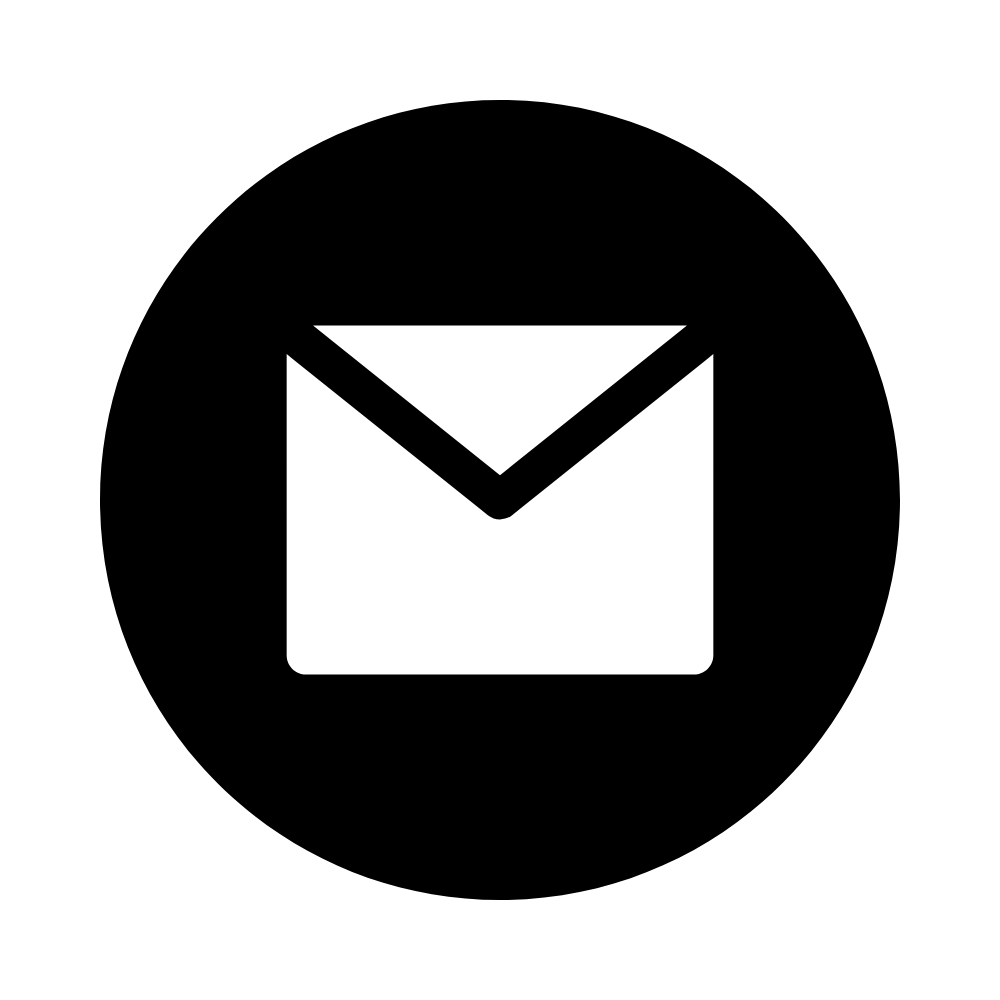
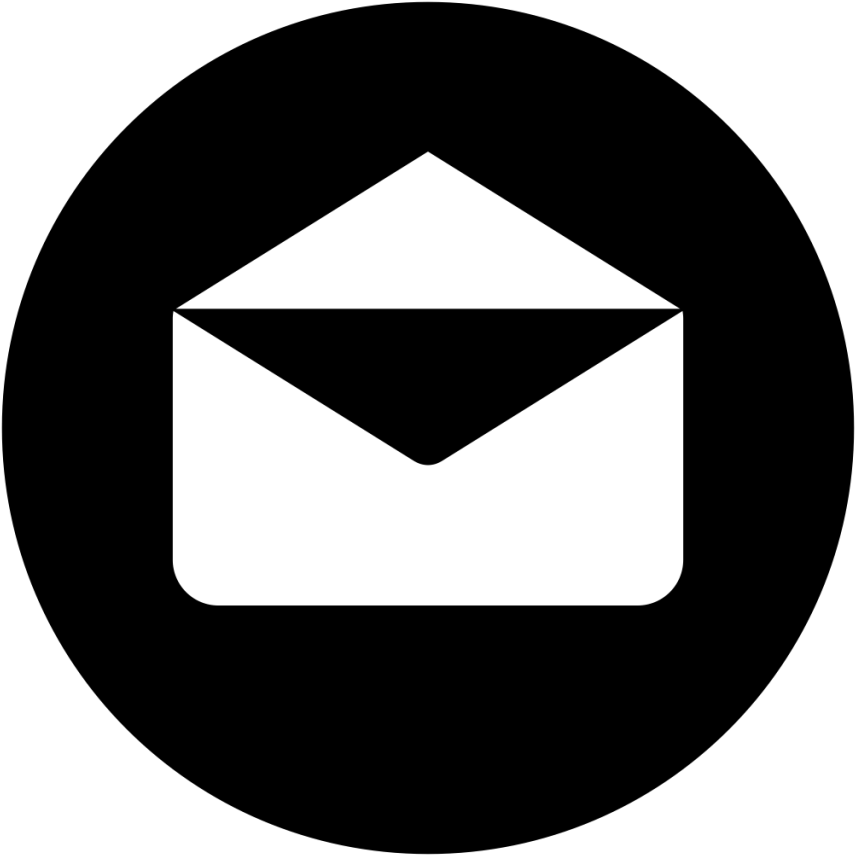
Updated education section layout and style

diff --git a/style.css b/style.css
@@ -202,15 +202,22 @@ section {
 #socials-container {
   display: flex;
   justify-content: center;
-  margin-top: 1rem;
-  gap: 1rem;
+  align-items: center;
+  gap: 1.5rem;
 }
 
 /* ICONS */
 
 .icon {
-  cursor: pointer;
-  height: 2rem;
+  cursor: pointer; /* Makes it clear these are clickable */
+  width: 2.5rem; /* Example size, adjust as needed */
+  height: 2.5rem; /* Maintain aspect ratio */
+  transition: transform 0.2s ease-in-out; /* Smooth hover effect */
+  /* Add other icon-specific styles if any */
+}
+
+.icon:hover {
+    transform: scale(1.1); /* Example hover effect */
 }
 
 /* BUTTONS */
@@ -718,18 +725,25 @@ body.dark-mode .section-title {
   gap: 1.5rem;
   justify-content: space-between;
   align-items: flex-start;
+}            
+
+#education {
+  margin-bottom: 6rem; /* space between education and experience */
 }
-/* Light mode: transparent effect for edu-card */
-.edu-card {             
-  background-color: #ffffff; /* Add this line to make it white in light mode */
+
+/* Light mode: solid white card with rounded corners */
+.edu-card {
+  background-color: #ffffff;
   color: #333;
   padding: 1.5rem;
-  border-radius: 12px;
-  box-shadow: none; /* Re-add a subtle shadow for white cards */
-  backdrop-filter: none; /* Remove blur for solid white cards */
+  border-radius: 12px; /* Rounded corners on all sides */
+  box-shadow: 0 4px 12px rgba(0, 0, 0, 0.1); /* Soft depth shadow */
+  border: 1px solid #e0e0e0; /* Optional light border for extra separation */
+  backdrop-filter: none;
   width: 200px;
   text-align: center;
-  transition: transform 0.3s ease, background-color 0.3s ease, box-shadow 0.3s ease, color 0.3s ease;
+  transition: transform 0.3s ease, background-color 0.3s ease,
+              box-shadow 0.3s ease, color 0.3s ease;
 }
 
 /* Dark mode: transparent glass effect (already good, just ensure consistency) */
@@ -948,4 +962,75 @@ body.dark-mode .edu-card {
 
 body.dark-mode #education {
   background-color: #121212; /* Dark background for dark mode */
+}
+
+/* --- Styles for the Social Icons Section --- */
+
+#socials-container {
+    display: flex; /* Makes the icons arrange in a row */
+    justify-content: center; /* Horizontally centers the icons within their container */
+    align-items: center;   /* Vertically centers the icons (addresses "stuck to the above" issue) */
+    gap: 1.5rem;           /* Adds space BETWEEN the icons. Adjust this value as needed for more/less space */
+    margin-top: 1.5rem;    /* Adds space ABOVE the social icons container (adjust as needed) */
+    padding: 0.5rem 0;     /* Add some vertical padding if needed to create space around the row of icons */
+}
+
+.icon {
+    /* Ensures all icons (LinkedIn, GitHub, Email) are the same size */
+    width: 2.5rem;  /* Adjust this size to your preference */
+    height: 2.5rem; /* Ensures height matches width, assuming square icons */
+    object-fit: contain; /* Ensures the entire image is visible within the assigned width/height */
+    cursor: pointer;      /* Indicates they are clickable */
+    transition: transform 0.2s ease-in-out; /* Smooth hover effect */
+}
+
+.icon:hover {
+    transform: scale(1.1); /* Slightly enlarge on hover */
+}
+
+/* --- Mobile Responsiveness --- */
+/* Add these adjustments within your existing @media queries in mediaqueries.css */
+
+@media screen and (max-width: 1200px) {
+    #socials-container {
+       gap: 1.25rem; 
+        /* No major changes needed here, flex should handle it */
+        /* You might want a slightly smaller gap than desktop, e.g., 1.25rem */
+    }
+}
+
+@media screen and (max-width: 600px) {
+    #socials-container {
+        gap: 1rem; /* Adjust space for smaller screens if 1.5rem is too much */
+        /* If you anticipate more icons later and they might not fit on one line: */
+        /* flex-wrap: wrap; */
+    }
+
+    .icon {
+        width: 2rem;  /* Smaller icons for very small screens */
+        height: 2rem;
+    }
+}
+.about-layout {
+  display: flex;
+  justify-content: space-between;
+  align-items: flex-start;
+  gap: 2rem;
+}
+
+/* Stack vertically on smaller screens to prevent overlap */
+@media screen and (max-width: 900px) {
+  .about-layout {
+    flex-direction: column;
+    align-items: center; /* Optional: center cards below the image */
+  }
+
+  .about-image, .education-boxes {
+    width: 100%;
+    text-align: center;
+  }
+
+  .edu-card {
+    margin: 0 auto; /* Optional: center the cards themselves */
+  }
 }

diff --git a/mediaqueries.css b/mediaqueries.css
@@ -1,6 +1,6 @@
 @media screen and (max-width: 1400px) {
   #profile {
-    height: 83vh;
+    height: auto;
     margin-bottom: 6rem;
   }
   .about-containers {
@@ -47,13 +47,13 @@
   }
 }
 
-@media screen and (max-width: 600px) {
+ @media screen and (max-width: 600px) {
   #contact,
   footer {
-    height: 40vh;
+    height: fit-content;
   }
   #profile {
-    height: 83vh;
+    height: auto;
     margin-bottom: 0;
   }
   article {
@@ -83,7 +83,7 @@
   }
   .nav-links {
     flex-direction: column;
-    gap: 0.5rem;
+    gap: 1rem;
     text-align: center;
   }
   .section__pic-container {
@@ -91,18 +91,12 @@
     height: 46vw;
     justify-content: center;
   }
-  .section__text__p1 {
-  font-size: 2.5rem;       /* Try 3rem or more if needed */
-  font-weight: 700;
-  text-align: center;
-  color: #333;
-  margin-bottom: 0.5rem;
-}
+
   .title {
     font-size: 2rem;
   }
   .text-container {
-    text-align: justify;
+    text-align: left;
   }
   .animated-title span {
   display: inline-block;
@@ -152,8 +146,9 @@
     border-color: transparent;
   }
 }
-@media screen and (max-width: 768px) {
+  @media screen and (max-width: 768px) {
   .education-boxes {
+    display: flex;
     flex-direction: column;
     align-items: center;
   }
@@ -187,5 +182,26 @@
     justify-content: space-evenly;
     font-size: 1.1rem;
   }
+}
+
+@media screen and (max-width: 1200px) {
+  .about-layout {
+    flex-direction: column;
+    align-items: center;
+  }
+
+  .about-image,
+  .education-boxes {
+    width: 100%;
+  }
+}
+@media screen and (max-width: 1024px) {
+  #education {
+    margin-bottom: 5rem;
+  }
+}
+.edu-card p,
+.details-container p {
+  overflow-wrap: break-word;
 }
 

diff --git a/index.html b/index.html
@@ -82,10 +82,17 @@
         class="icon"
         onclick="location.href='https://github.com/Arunava6171'"
       />
+      <img
+        src="./assets/email.png" 
+        alt="Email Me"
+        class="icon"
+        onclick="location.href='mailto:arunavabi08@gmail.com'"
+      />
     </div>
   </div>
     </section>
     <section id="education">
+    <p class="section__text__p1">Go Through My</p>
   <h2 class="section-title">Education</h2>
   <div class="about-layout">
     <!-- Left: Profile Image -->
@@ -106,7 +113,7 @@
       <img src="./assets/higher-secondary-icon.png" alt="Higher Secondary icon" class="edu-icon" />
       <h3>Higher Secondary</h3>
       <p>Delhi Public School Kolkata</p>
-      <p>Grade: 78%</p>
+      <p>Grade: 81%</p>
       <p>2018 – 2020</p>
     </div>
 
@@ -114,7 +121,7 @@
       <img src="./assets/secondary-icon.png" alt="Secondary icon" class="edu-icon" />
       <h3>Secondary</h3>
       <p>Delhi Public School Kolkata</p>
-      <p>Grade: 89%</p>
+      <p>Grade: 92%</p>
       <p>2016 – 2018</p>
     </div>
   </div>
@@ -356,7 +363,7 @@
             alt="Email icon"
             class="icon contact-icon email-icon"
           />
-          <p><a href="mailto:exampl@gmail.com">example@gmail.com</a></p>
+          <p><a href="mailto:arunavabi08@gmail.com">arunavabi08@gmail.com</a></p>
         </div>
         <div class="contact-info-container">
           <img
